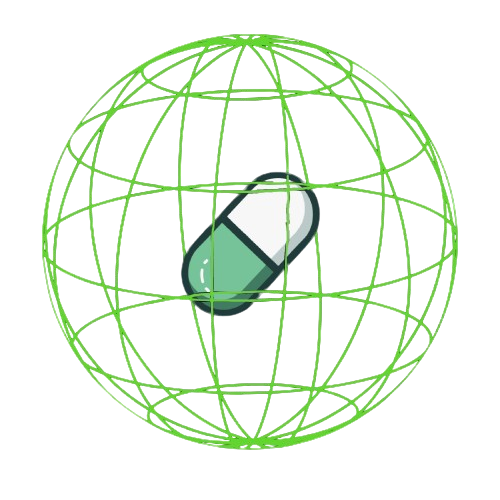
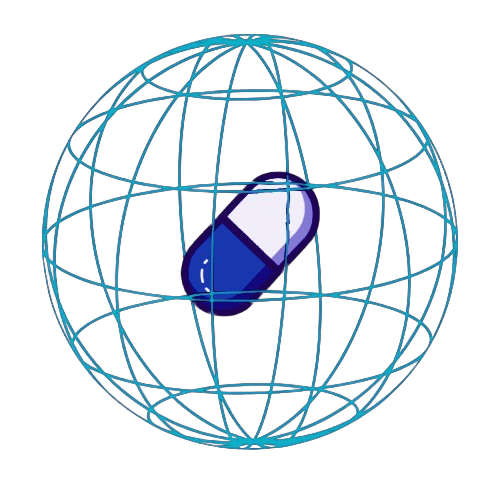
8

Changed region(s): [[0.06, 0.06, 0.93, 0.9]]

diff --git a/index.html b/index.html
@@ -3,31 +3,32 @@
 <head>
     <meta charset="UTF-8">
     <meta name="viewport" content="width=device-width, initial-scale=1.0">
-    <title>Trenches Talk</title>
+    <title>Global Meeting</title>
     <style>
         * {
             margin: 0;
             padding: 0;
             box-sizing: border-box;
         }
-
         body {
-            font-family: monospace, sans-serif;
-            background-color: #000000;
-            color: #00ff00;
-            display: flex;
-            justify-content: center;
-            align-items: center;
-            height: 100vh;
-            overflow: hidden;
-        }
+    font-family: monospace, sans-serif;
+    background: url('worldmap_countries_blue_on_dark-scaled.jpg') no-repeat center center fixed;
+    background-size: cover;
+    color: #8abeff;
+    display: flex;
+    justify-content: center;
+    align-items: center;
+    height: 100vh;
+    overflow: hidden;
+}
+
 
         #chat-container {
             width: 100%;
             max-width: 1000px;
             height: 90vh;
             background-color: #111111;
-            border: 2px solid #00ff00;
+            border: 2px solid #8abeff;
             padding: 15px;
             overflow: hidden;
             display: flex;
@@ -65,7 +66,7 @@
         #main-title {
             font-size: 18px;
             font-weight: bold;
-            color: #00ff00;
+            color: #8abeff;
         }
 
         #subtitle {
@@ -92,7 +93,7 @@
             font-weight: bold;
             text-align: center;
             margin-bottom: 10px;
-            border-bottom: 1px solid #00ff00;
+            border-bottom: 1px solid #8abeff;
             padding-bottom: 5px;
         }
 
@@ -102,7 +103,7 @@
             margin-bottom: 10px;
             padding: 10px;
             background-color: #000000;
-            border: 1px solid #00ff00;
+            border: 1px solid #8abeff;
         }
 
         #message-container li {
@@ -119,7 +120,7 @@
         }
 
         #message-container li .message-text {
-            color: #00ff00;
+            color: #8abeff;
         }
 
         #message-container li.sent .message-username {
@@ -138,22 +139,22 @@
         #input-container input {
             flex-grow: 1;
             padding: 10px;
-            border: 1px solid #00ff00;
+            border: 1px solid #8abeff;
             background-color: #000000;
-            color: #00ff00;
+            color: #8abeff;
             font-family: monospace;
         }
 
         #input-container button {
             padding: 10px 20px;
-            border: 1px solid #00ff00;
+            border: 1px solid #8abeff;
             background-color: #000000;
-            color: #00ff00;
+            color: #8abeff;
             cursor: pointer;
         }
 
         #input-container button:hover {
-            background-color: #00ff00;
+            background-color: #8abeff;
             color: #000000;
         }
 
@@ -164,23 +165,23 @@
 
         #username-container input {
             padding: 8px;
-            border: 1px solid #00ff00;
+            border: 1px solid #8abeff;
             background-color: #000000;
-            color: #00ff00;
+            color: #8abeff;
             font-family: monospace;
         }
 
         #username-container button {
             padding: 8px 15px;
-            border: 1px solid #00ff00;
+            border: 1px solid #8abeff;
             background-color: #000000;
-            color: #00ff00;
+            color: #8abeff;
             font-family: monospace;
             cursor: pointer;
         }
 
         #username-container button:hover {
-            background-color: #00ff00;
+            background-color: #8abeff;
             color: #000000;
         }
 
@@ -190,7 +191,7 @@
         }
 
         #message-container::-webkit-scrollbar-thumb {
-            background: #00ff00;
+            background: #8abeff;
         }
 
         #message-container::-webkit-scrollbar-track {
@@ -204,13 +205,13 @@
         <img src="d-removebg-preview.png" alt="Logo" id="logo"> <!-- Replace 'your-logo-path.png' with your actual logo path -->
 
         <div id="header-container">
-            <h1 id="main-title">Trenches Talk - Live Chat - CA HERE</h1>
+            <h1 id="main-title">Global Meeting - Live Chat - CA HERE</h1>
             <p id="subtitle">Let's connect and talk about this Meta.</p>
-            <a href="https://x.com/Trenches_talk" target="_blank" id="twitter-link">@Degens_Talk</a>
-            <a href="https://t.me/trenchestalk" target="_blank" id="twitter-link">https://t.me/+9JDb9tJBEAIzOTE0</a>
+            <a href="https://x.com/global_Discuss_" target="_blank" id="twitter-link">@Global_Discuss_/a>
+            <a href="https://t.me/globladiscuss" target="_blank" id="twitter-link">https://t.me/globladiscuss</a>
         </div>
 
-        <div id="chat-title">Terminal Chat Interface</div>
+        <div id="chat-title">Global Chat Interface</div>
 
         <div id="username-container">
             <input type="text" id="username-input" placeholder="Enter your username">
